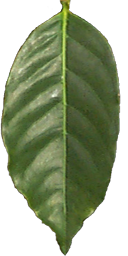
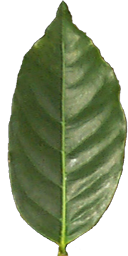
Randomized fruits and leaves

diff --git a/ev2_tests/src/tree.cpp b/ev2_tests/src/tree.cpp
@@ -158,12 +158,12 @@ struct P_3 : public MonopodialProduction {
 
 }
 
-TreeNode::TreeNode(GameState* game, const std::string& name, bool has_leafs) : ev2::VisualInstance{name}, game{game}, has_leafs{has_leafs} {
+TreeNode::TreeNode(GameState* game, const std::string& name, bool has_leafs, int u_id) : ev2::VisualInstance{name}, game{game}, has_leafs{has_leafs} {
     buffer_layout.add_attribute(ev2::VertexAttributeType::Vertex)
         .add_attribute(ev2::VertexAttributeType::Normal)
         .add_attribute(ev2::VertexAttributeType::Color)
         .finalize();
-
+    this->plantInfo.ID = u_id;
 
     params = monopodial::DefaultParamsA;
 }
@@ -172,8 +172,34 @@ void TreeNode::on_init() {
     ev2::VisualInstance::on_init();
 
     if (has_leafs) {
+
+        std::string fruit_mat = std::to_string(this->plantInfo.ID).append("fruit_material");
+        fruit_material = ResourceManager::get_singleton().get_material(fruit_mat);
+        fruit_material->get_material()->diffuse = glm::vec3{randomFloatRange(0.0001, 1.), randomFloatRange(0.0001, 1.), randomFloatRange(0.0001, 1.)};
+        fruit_material->get_material()->sheen = randomFloatRange(0.2, 1.0);;
+        fruit_material->get_material()->roughness = randomFloatRange(0.0001, 1.0);
+        fruit_material->get_material()->clearcoat = 0.2f;
+        fruit_material->get_material()->metallic = randomFloatRange(0.0001, 0.5);
+        fruit_material->get_material()->emissive = randomFloatRange(0.0001, 1.) * fruit_material->get_material()->diffuse;
+
+        std::string leaf_mat = std::to_string(this->plantInfo.ID).append("leaf_material");
+        leaf_material = ResourceManager::get_singleton().get_material(leaf_mat);
+        leaf_material->get_material()->diffuse = glm::vec3{randomFloatRange(0.0001, 1.), randomFloatRange(0.0001, 1.), randomFloatRange(0.0001, 1.)};
+        leaf_material->get_material()->emissive = randomFloatRange(0.0001, 1.) * glm::vec3{randomFloatRange(0.0001, 1.), randomFloatRange(0.0001, 1.), randomFloatRange(0.0001, 1.)};
+        leaf_material->get_material()->metallic = randomFloatRange(0.0001, 0.3);
+        leaf_material->get_material()->subsurface = randomFloatRange(0.5, 1);
+        leaf_material->get_material()->specular = randomFloatRange(0.0001, 0.2);;
+        leaf_material->get_material()->roughness = randomFloatRange(0.0001, 1);;
+        leaf_material->get_material()->specularTint = 0.f;
+        leaf_material->get_material()->clearcoat = randomFloatRange(0.0001, 1.0);;
+        leaf_material->get_material()->clearcoatGloss = 0.63;
+        leaf_material->get_material()->sheen = randomFloatRange(0.0001, 0.8);;
+        leaf_material->get_material()->sheenTint = 0.5f;
+        leaf_material->get_material()->diffuse_tex = ResourceManager::get_singleton().get_texture("coffee_leaf1.png");
+
         leafs = create_node<ev2::InstancedGeometry>("leafs");
-        leafs->set_material_override(game->leaf_material->get_material());
+        leafs->set_material_override(leaf_material->get_material());
+
     }
 
     tree_geometry = ev2::renderer::Renderer::get_singleton().create_model(
@@ -310,20 +336,21 @@ void TreeNode::generate(int iterations) {
 }
 
 void TreeNode::spawn_fruit(const glm::vec3& position, const SuperShapeParams& params) {
-    
     ev2::Ref<Fruit> fruit = create_node<Fruit>("Fruit", params);
+    fruit->params = params;
+    fruit->generate(0.00000001f);
     ev2::Ref<ev2::RigidBody> fruit_hit_sphere = get_scene()->create_node<ev2::RigidBody>("fruit");
     fruit_hit_sphere->add_shape(ev2::make_referenced<ev2::SphereShape>(.5f), glm::vec3{0, 0, 0});
-    fruit_hit_sphere->transform.position = position;
-    fruit_hit_sphere->add_child(fruit);
-    // fruit_hit_sphere->get_body()->setType(reactphysics3d::BodyType::DYNAMIC);
-
     auto light = create_node<ev2::PointLightNode>("point_light");
     light->set_color(c0 * 0.1f);
 
     fruit_hit_sphere->add_child(light);
+    fruit_hit_sphere->transform.position = position;
+    fruit_hit_sphere->add_child(fruit);
+    fruits.insert(fruits.begin(), fruit);
+    // fruit_hit_sphere->get_body()->setType(reactphysics3d::BodyType::DYNAMIC);
 
-    fruit->set_material_override(game->fruit_material->get_material());
+    fruit->set_material_override(fruit_material->get_material());
 }
 
 Fruit::Fruit(const std::string& name, const SuperShapeParams& params) : ev2::VisualInstance{name}, supershape{radius_mul, 50, 50, params} {
@@ -356,10 +383,11 @@ void Fruit::on_init() {
 void Fruit::generate(float growth) {
 
     SuperShapeParams updated_params = params;
-    updated_params.n2 = params.n2 * growth;
+    updated_params.n2 = params.n2 * growth * growth * growth;
+    updated_params.q2 = params.q2 * growth * growth;
 
     
-    supershape = SuperSphere(radius_mul, 50, 50, updated_params);
+    supershape = SuperSphere(radius_mul, 20, 20, updated_params);
     const std::vector<uint32_t>& indices = supershape.getIndicesv();
     const std::vector<float> vbuffer = supershape.getInterleavedVerticesv();
 

diff --git a/ev2_tests/src/game.cpp b/ev2_tests/src/game.cpp
@@ -45,7 +45,7 @@ GameState::GameState() {
     highlight_material->get_material()->emissive = glm::vec3{10, 0, 0};
     highlight_material->get_material()->sheen = 1.0;
     highlight_material->get_material()->metallic = 0.9;
-
+/*
     fruit_material = ResourceManager::get_singleton().get_material("fruit_material");
     // fruit_material->get_material()->emissive = glm::vec3{2.29, 6.02, 4.78};
     fruit_material->get_material()->diffuse = glm::vec3{0.229, 0.602, 0.478};
@@ -67,7 +67,7 @@ GameState::GameState() {
     leaf_material->get_material()->sheen = 0.35f;
     leaf_material->get_material()->sheenTint = 0.5f;
     leaf_material->get_material()->diffuse_tex = ResourceManager::get_singleton().get_texture("coffee_leaf1.png");
-
+*/
     auto ground_material = ResourceManager::get_singleton().get_material("ground_mat");
     ground_material->get_material()->metallic = 0.16;
     ground_material->get_material()->subsurface = 0.95;
@@ -137,7 +137,7 @@ GameState::GameState() {
     // instance_node->instance_transforms.push_back(glm::translate(glm::identity<glm::mat4>(), {2, 10, 0}));
     // instance_node->instance_transforms.push_back(glm::translate(glm::identity<glm::mat4>(), {3, 10, 0}));
 
-    for (int n = 0; n < 2; n++)
+    for (int n = 0; n < 3; n++)
     {
         spawn_random_tree(glm::vec3{}, 40, 9, 1.0f);
     }
@@ -171,13 +171,10 @@ void GameState::update(float dt) {
                     tree->setParams(tree->getParams(), tree->plantInfo.iterations, tree->growth_current);
                     j++;
                 } else if (tree->growth_current < tree->fruit_growth_max) {
-                    // for (ev2::Ref<Node> node : tree->get_children()) {
-                    //     ev2::Ref<Fruit> fruit = node.ref_cast<Node>().ref_cast<Fruit>();
-                    //     if (fruit) {
-                    //         fruit->generate(tree->growth_current - 1.0f);
-                    //     }
-
-                    // }
+                    tree->growth_current = tree->growth_current + tree->growth_rate * dt * (1/(log(tree->growth_current + 1.1f)));
+                     for (ev2::Ref<Fruit> fruit : tree->fruits) {
+                        fruit->generate(tree->growth_current - 1.0f);
+                     }
                     //for fruit on tree update fruit growth.
                 }
 
@@ -201,7 +198,7 @@ void GameState::spawn_tree(const glm::vec3& position, float rotation, const std:
     int unique_id = (int)randomFloatTo(9999999);
     std::string unique_hit_tag = std::string("Tree_root_") + std::to_string(unique_id);
     
-    ev2::Ref<TreeNode> tree = scene->create_node<TreeNode>(this, "Tree", breedable);
+    ev2::Ref<TreeNode> tree = scene->create_node<TreeNode>(this, "Tree", breedable, unique_id);
     auto debug = tree->get_parent();
     tree->plantInfo.ID = unique_id;
     tree->breedable = breedable;
@@ -316,7 +313,7 @@ void GameState::spawn_fruit(const glm::vec3& position, const SuperShapeParams& p
     fruit_hit_sphere->add_child(fruit);
     // fruit_hit_sphere->get_body()->setType(reactphysics3d::BodyType::DYNAMIC);
 
-    fruit->set_material_override(fruit_material->get_material());
+    //fruit->set_material_override(fruit_material->get_material());
 }
 
 void GameState::spawn_fruit(const glm::vec3& position) {
@@ -328,7 +325,7 @@ void GameState::spawn_fruit(const glm::vec3& position) {
     fruit_hit_sphere->add_child(fruit);
     // fruit_hit_sphere->get_body()->setType(reactphysics3d::BodyType::DYNAMIC);
 
-    fruit->set_material_override(highlight_material->get_material());
+    //fruit->set_material_override(highlight_material->get_material());
 }
 
 void GameState::spawn_box(const glm::vec3& position) {

diff --git a/ev2_tests/include/tree.h b/ev2_tests/include/tree.h
@@ -46,9 +46,24 @@ struct PNVertex {
     glm::vec3 color;
 };
 
+class Fruit : public ev2::VisualInstance {
+public:
+    Fruit(const std::string& name, const SuperShapeParams& params);
+    Fruit(const std::string& name);
+
+    void on_init() override;
+
+    void generate(float growth);
+
+    const float radius_mul = 0.25f;
+    SuperSphere supershape{};
+    SuperShapeParams params{};
+    ev2::renderer::Drawable* geometry{};
+};
+
 class TreeNode : public ev2::VisualInstance {
 public:
-    explicit TreeNode(class GameState* game, const std::string& name, bool has_leafs = false);
+    explicit TreeNode(class GameState* game, const std::string& name, bool has_leafs = false, int u_id = -1);
 
     void on_init() override;
     void on_destroy() override;
@@ -57,6 +72,8 @@ public:
     void setParams(const std::map<std::string, float>& paramsNew, int iterations, float growth);
     void spawn_fruit(const glm::vec3& position, const SuperShapeParams& params);
     std::map<std::string, float> getParams() {return params;}
+    ev2::Ref<ev2::MaterialResource> fruit_material;
+    ev2::Ref<ev2::MaterialResource> leaf_material;
     
     bool breedable = true;
     float growth_current = 0;
@@ -75,6 +92,7 @@ public:
     std::map<std::string, float> params;
     ev2::VertexLayout buffer_layout;
     ev2::renderer::Drawable* tree_geometry;
+    std::list<ev2::Ref<Fruit>> fruits;
 
     PlantInfo plantInfo{};
     SuperShapeParams fruit_params{};
@@ -82,21 +100,6 @@ public:
     ev2::Ref<ev2::InstancedGeometry> leafs;
     
     class GameState* const game;
-};
-
-class Fruit : public ev2::VisualInstance {
-public:
-    Fruit(const std::string& name, const SuperShapeParams& params);
-    Fruit(const std::string& name);
-
-    void on_init() override;
-
-    void generate(float growth);
-
-    const float radius_mul = 0.25f;
-    SuperSphere supershape{};
-    SuperShapeParams params{};
-    ev2::renderer::Drawable* geometry{};
 };
 
 class FireFlies : public ev2::Node {

diff --git a/ev2_tests/include/game.h b/ev2_tests/include/game.h
@@ -27,9 +27,10 @@ public:
     Ref<Scene> scene;
     ev2::Ref<ev2::MaterialResource> tree_bark;
     ev2::Ref<ev2::MaterialResource> highlight_material;
+/*
     ev2::Ref<ev2::MaterialResource> fruit_material;
     ev2::Ref<ev2::MaterialResource> leaf_material;
-
+*/
     ev2::Ref<ev2::CameraNode> cam_first_person{};
     ev2::Ref<ev2::VisualInstance> marker{};
     ev2::Ref<Player> player;
